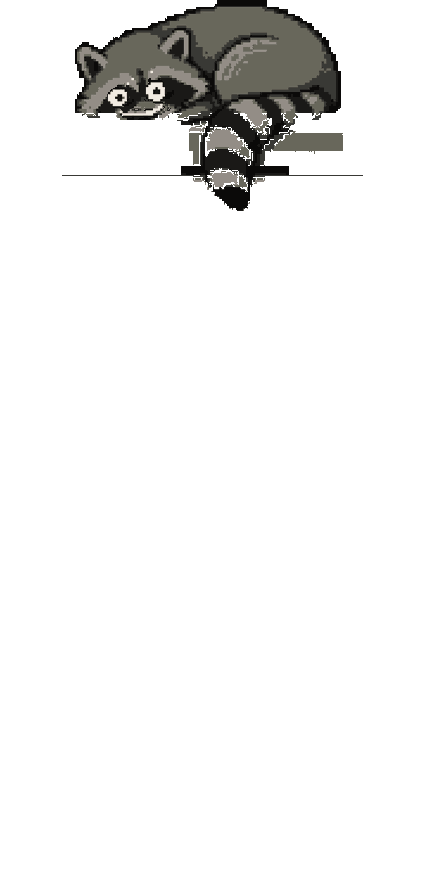
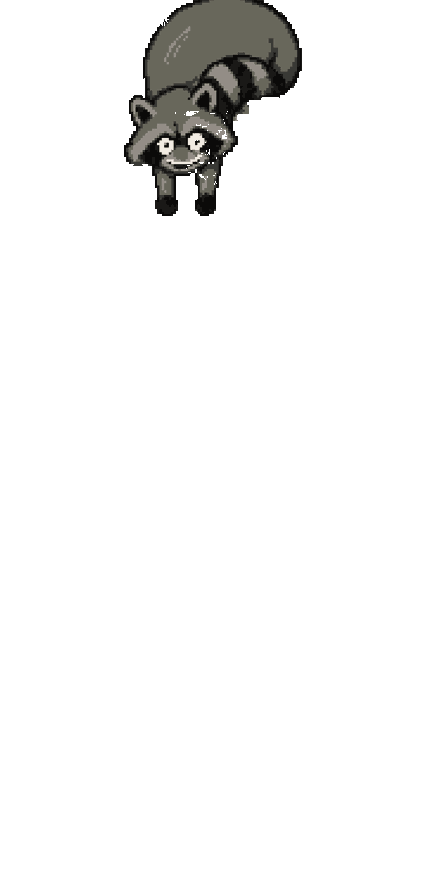
feat(bazaar): raccoon unfurl tweens, dot under the pointing paw

Changed region(s): [[0.1529, 0.0, 0.8259, 0.2446]]

diff --git a/apps/main/app/bazaar/stalls-manifest.ts b/apps/main/app/bazaar/stalls-manifest.ts
@@ -343,7 +343,9 @@ export const STALL_SCENES = {
           { file: 'char-h1.png', ms: 150 },
           { file: 'char-h2.png', ms: 150 },
           { file: 'char-h3.png', ms: 150 },
-          { file: 'char-h4.png', ms: 0 },
+          { file: 'char-h4.png', ms: 150 },
+          { file: 'char-h5.png', ms: 150 },
+          { file: 'char-h6.png', ms: 0 },
         ],
       },
     ],
